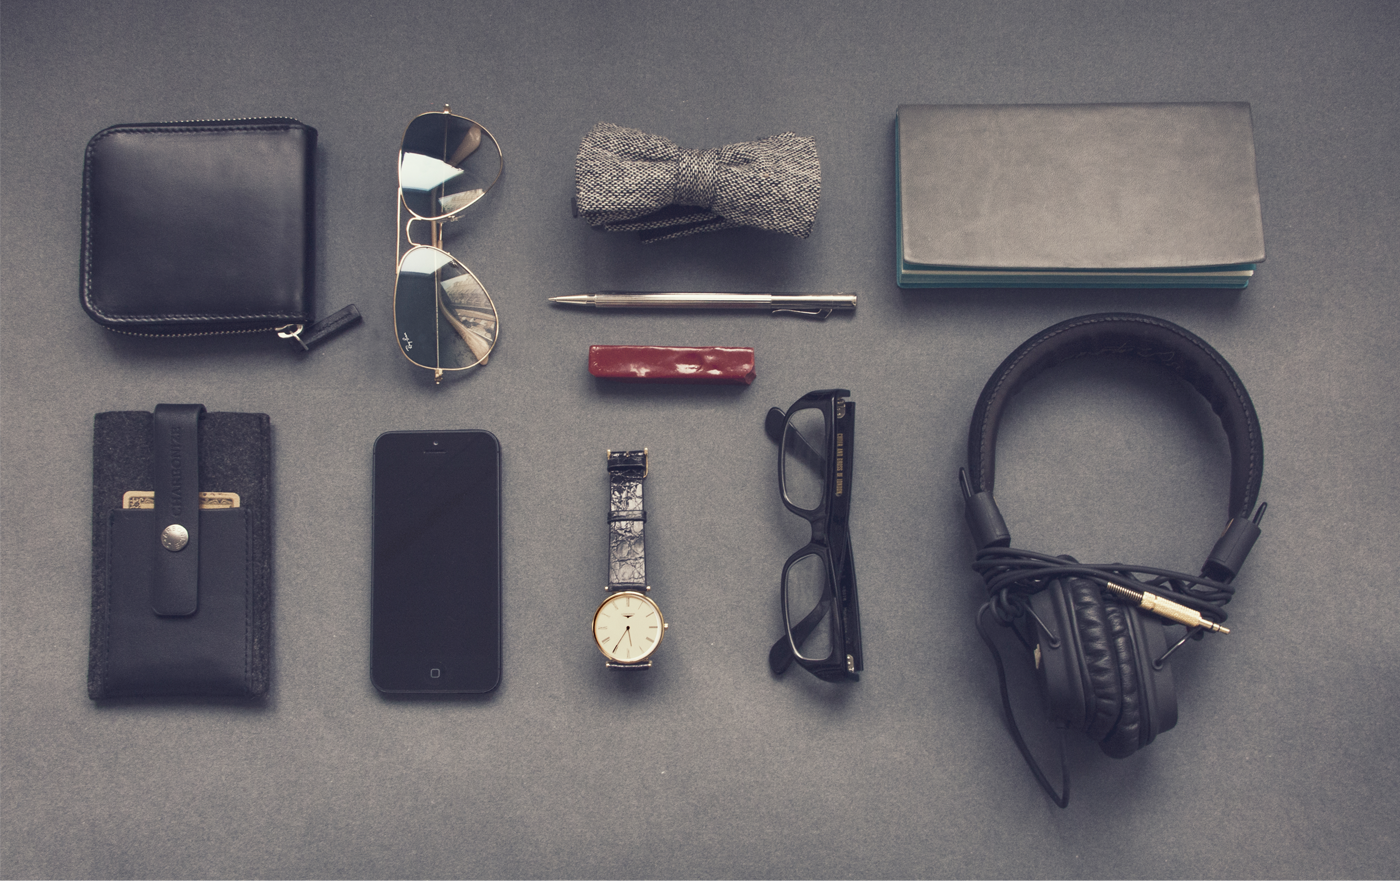
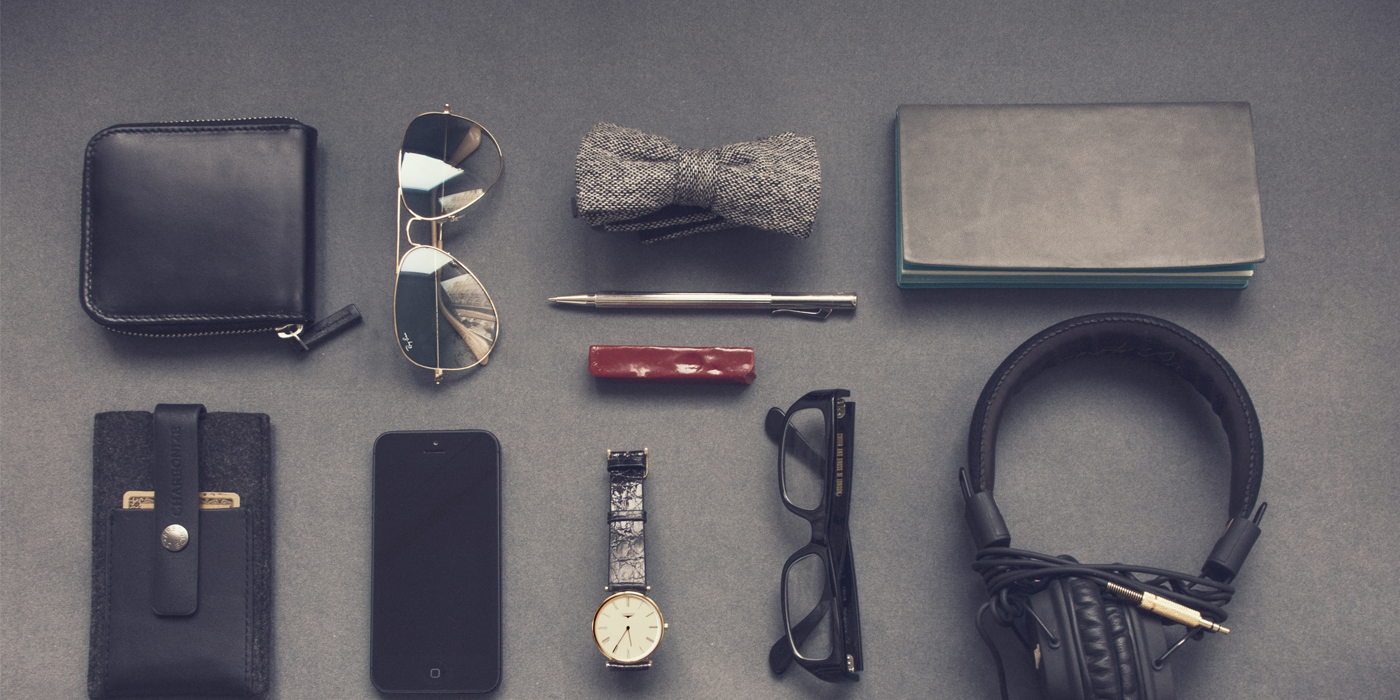
change style and background file in header

diff --git a/sass/style.min.css b/sass/style.min.css
@@ -1,1 +1,1 @@
-*{box-sizing:border-box;padding:0;margin:0}.list-item{display:inline-block}.list-item a{text-decoration:none}.section-description{margin-bottom:96px}.section-description .page-subtitle{font-size:40px;letter-spacing:-1px;color:#222;font-family:"Montserrat",sans-serif;font-weight:700;margin-bottom:10px}.section-description p{font-size:16px;color:#777;font-family:"Droid Serif",sans-serif;font-weight:400;font-style:italic}.header{height:100vh;position:relative;background-image:url("../assets/background-image.png");background-size:cover;background-position:center 100%}.header-navigation{padding:50px 0;margin-right:20px}.header-navigation .logo-title{font-family:"Lobster Two",cursive;color:#fed136;font-style:italic;font-size:26px;margin-left:176px}.header-navigation .list-item a{font-family:"Montserrat",sans-serif;font-size:14px;color:#fff;font-weight:400;margin-right:30px}.header-navigation .row{justify-content:space-between}.header-welcome{position:absolute;width:100%;top:50%;left:50%;transform:translate(-50%, -50%);color:#fff;font-size:36px;text-align:center}.header-welcome .row{flex-direction:column;align-items:center}.header-welcome .page-title{font-size:40px;font-family:"Droid Serif",sans-serif;font-weight:400;font-style:italic;letter-spacing:-1px}.header-welcome .page-title span{font-size:75px;font-family:"Montserrat",sans-serif;font-weight:700;font-style:normal;letter-spacing:-2px;display:inline-block;margin:30px 0}.header-welcome .button{display:inline-block;font-size:18px;font-family:"Montserrat",sans-serif;font-weight:700;color:inherit;height:65px;width:240px;border:none;border-radius:3px;background-color:#fed136;text-align:center;text-decoration:none}.services{margin:96px auto;text-align:center}.services i{font-size:30px;text-align:center;padding:12px;height:64px;width:64px;border-radius:50%;border:solid 3px #fed136;background-color:#fff;color:#fed136;margin-bottom:24px}.services .box-outer{flex-direction:column}.services .box-outer .box-title{font-size:18px;color:#222;font-family:"Montserrat",sans-serif;font-weight:700}.services .box-outer .box-wording{font-size:14px;color:#777;font-family:"Roboto Slab",serif;font-weight:400;margin-top:15px;line-height:2;letter-spacing:0px;padding:0 30px}.portfolio{margin:96px auto 24px auto;padding:96px 0;text-align:center;background-color:#f7f7f7}.portfolio .row{margin:0}.portfolio .box-outer{flex-direction:column;padding:10px}.portfolio .box-outer .box-title{font-size:18px;color:#222;font-family:"Montserrat",sans-serif;font-weight:700;margin:10px 0}.portfolio .box-outer .box-wording{font-size:14px;color:#777;font-family:"Droid Serif",sans-serif;font-weight:400;font-style:italic}.portfolio .portfolio-image{width:100%;height:100%;object-fit:cover}.portfolio .box-image{flex:1 1 33.3333%}.portfolio .box-description{background-color:#fff;padding:20px 0}.footer-area{margin-bottom:24px}.footer-area a{font-size:0}.footer-area i{font-size:20px;text-align:center;padding:10px;height:40px;width:40px;border-radius:50%;background-color:black;color:#fff}.footer-copyright{align-items:center;font-size:14px;color:#555;font-family:"Montserrat",sans-serif;font-weight:700;letter-spacing:-0.5px}
+*{box-sizing:border-box;padding:0;margin:0}.list-item{display:inline-block}.list-item a{text-decoration:none}.section-description{margin-bottom:96px}.section-description .page-subtitle{font-size:40px;letter-spacing:-1px;color:#222;font-family:"Montserrat",sans-serif;font-weight:700;margin-bottom:10px}.section-description p{font-size:16px;color:#fff;font-family:"Droid Serif",sans-serif;font-weight:400;font-style:italic}.header{height:100vh;position:relative;background-image:url("../assets/background-image.png");background-size:cover;background-position:center}.header-navigation{padding:50px 0;margin-right:20px}.header-navigation .logo-title{font-family:"Lobster Two",cursive;color:#fed136;font-style:italic;font-size:26px;margin-left:176px}.header-navigation .list-item a{font-family:"Montserrat",sans-serif;font-size:14px;color:#fff;font-weight:400;margin-right:30px}.header-navigation .row{justify-content:space-between}.header-welcome{position:absolute;width:100%;top:50%;left:50%;transform:translate(-50%, -50%);color:#fff;font-size:36px;text-align:center}.header-welcome .row{flex-direction:column;align-items:center}.header-welcome .page-title{font-size:40px;font-family:"Droid Serif",sans-serif;font-weight:400;font-style:italic;letter-spacing:-1px;z-index:5}.header-welcome .page-title span{font-size:75px;font-family:"Montserrat",sans-serif;font-weight:700;font-style:normal;letter-spacing:-2px;display:inline-block;margin:30px 0}.header-welcome .button{display:inline-block;font-size:18px;font-family:"Montserrat",sans-serif;font-weight:700;color:inherit;height:65px;width:240px;border:none;border-radius:3px;background-color:#fed136;text-align:center;text-decoration:none}.services{margin:96px auto;text-align:center}.services i{font-size:30px;text-align:center;padding:12px;height:64px;width:64px;border-radius:50%;border:solid 3px #fed136;background-color:#fff;color:#fed136;margin-bottom:24px}.services .box-outer{flex-direction:column}.services .box-outer .box-title{font-size:18px;color:#222;font-family:"Montserrat",sans-serif;font-weight:700}.services .box-outer .box-wording{font-size:14px;color:#777;font-family:"Roboto Slab",serif;font-weight:400;margin-top:15px;line-height:2;letter-spacing:0px;padding:0 30px}.portfolio{margin:96px auto 24px auto;padding:96px 0;text-align:center;background-color:#f7f7f7}.portfolio .row{margin:0}.portfolio .box-outer{flex-direction:column;padding:10px}.portfolio .box-outer .box-title{font-size:18px;color:#222;font-family:"Montserrat",sans-serif;font-weight:700;margin:10px 0}.portfolio .box-outer .box-wording{font-size:14px;color:#777;font-family:"Droid Serif",sans-serif;font-weight:400;font-style:italic}.portfolio .portfolio-image{width:100%;height:100%;object-fit:cover}.portfolio .box-image{flex:1 1 33.3333%}.portfolio .box-description{background-color:#fff;padding:20px 0}.footer-area{margin-bottom:24px}.footer-area a{font-size:0}.footer-area i{font-size:20px;text-align:center;padding:10px;height:40px;width:40px;border-radius:50%;background-color:black;color:#fff}.footer-copyright{align-items:center;font-size:14px;color:#555;font-family:"Montserrat",sans-serif;font-weight:700;letter-spacing:-0.5px}

diff --git a/sass/style.scss b/sass/style.scss
@@ -39,7 +39,7 @@ $font-four: "Lobster Two", cursive;
   }
   & p {
     font-size: 16px;
-    color: $color-lightgrey;
+    color: $color-light;
     font-family: $font-three;
     font-weight: 400;
     font-style: italic;
@@ -52,12 +52,13 @@ $font-four: "Lobster Two", cursive;
   position: relative;
   background-image: url("../assets/background-image.png");
   background-size: cover;
-  background-position: center 100%;
+  background-position: center;
 }
 
 .header-navigation {
   padding: 50px 0;
   margin-right: 20px;
+ 
   & .logo-title {
     font-family: $font-four;
     color: $color-yellow;
@@ -66,11 +67,11 @@ $font-four: "Lobster Two", cursive;
     margin-left: 176px;
   }
   & .list-item a {
-    font-family: $font-one;
-    font-size: 14px;
-    color: $color-light;
-    font-weight: 400;
-    margin-right: 30px;
+      font-family: $font-one;
+      font-size: 14px;
+      color: $color-light;
+      font-weight: 400;
+      margin-right: 30px;
   }
   & .row {
     justify-content: space-between;
@@ -96,6 +97,7 @@ $font-four: "Lobster Two", cursive;
     font-weight: 400;
     font-style: italic;
     letter-spacing: -1px;
+    z-index: 5;
     & span {
       font-size: 75px;
       font-family: $font-one;

diff --git a/css/style.css b/css/style.css
@@ -29,7 +29,7 @@
 
 .section-description p {
   font-size: 16px;
-  color: #777777;
+  color: #fff;
   font-family: "Droid Serif", sans-serif;
   font-weight: 400;
   font-style: italic;
@@ -41,7 +41,7 @@
   position: relative;
   background-image: url("../assets/background-image.png");
   background-size: cover;
-  background-position: center 100%;
+  background-position: center;
 }
 
 .header-navigation {
@@ -94,6 +94,7 @@
   font-weight: 400;
   font-style: italic;
   letter-spacing: -1px;
+  z-index: 5;
 }
 
 .header-welcome .page-title span {

diff --git a/sass/style.css b/sass/style.css
@@ -29,7 +29,7 @@
 
 .section-description p {
   font-size: 16px;
-  color: #777777;
+  color: #fff;
   font-family: "Droid Serif", sans-serif;
   font-weight: 400;
   font-style: italic;
@@ -41,7 +41,7 @@
   position: relative;
   background-image: url("../assets/background-image.png");
   background-size: cover;
-  background-position: center 100%;
+  background-position: center;
 }
 
 .header-navigation {
@@ -91,6 +91,7 @@
   font-weight: 400;
   font-style: italic;
   letter-spacing: -1px;
+  z-index: 5;
 }
 
 .header-welcome .page-title span {
